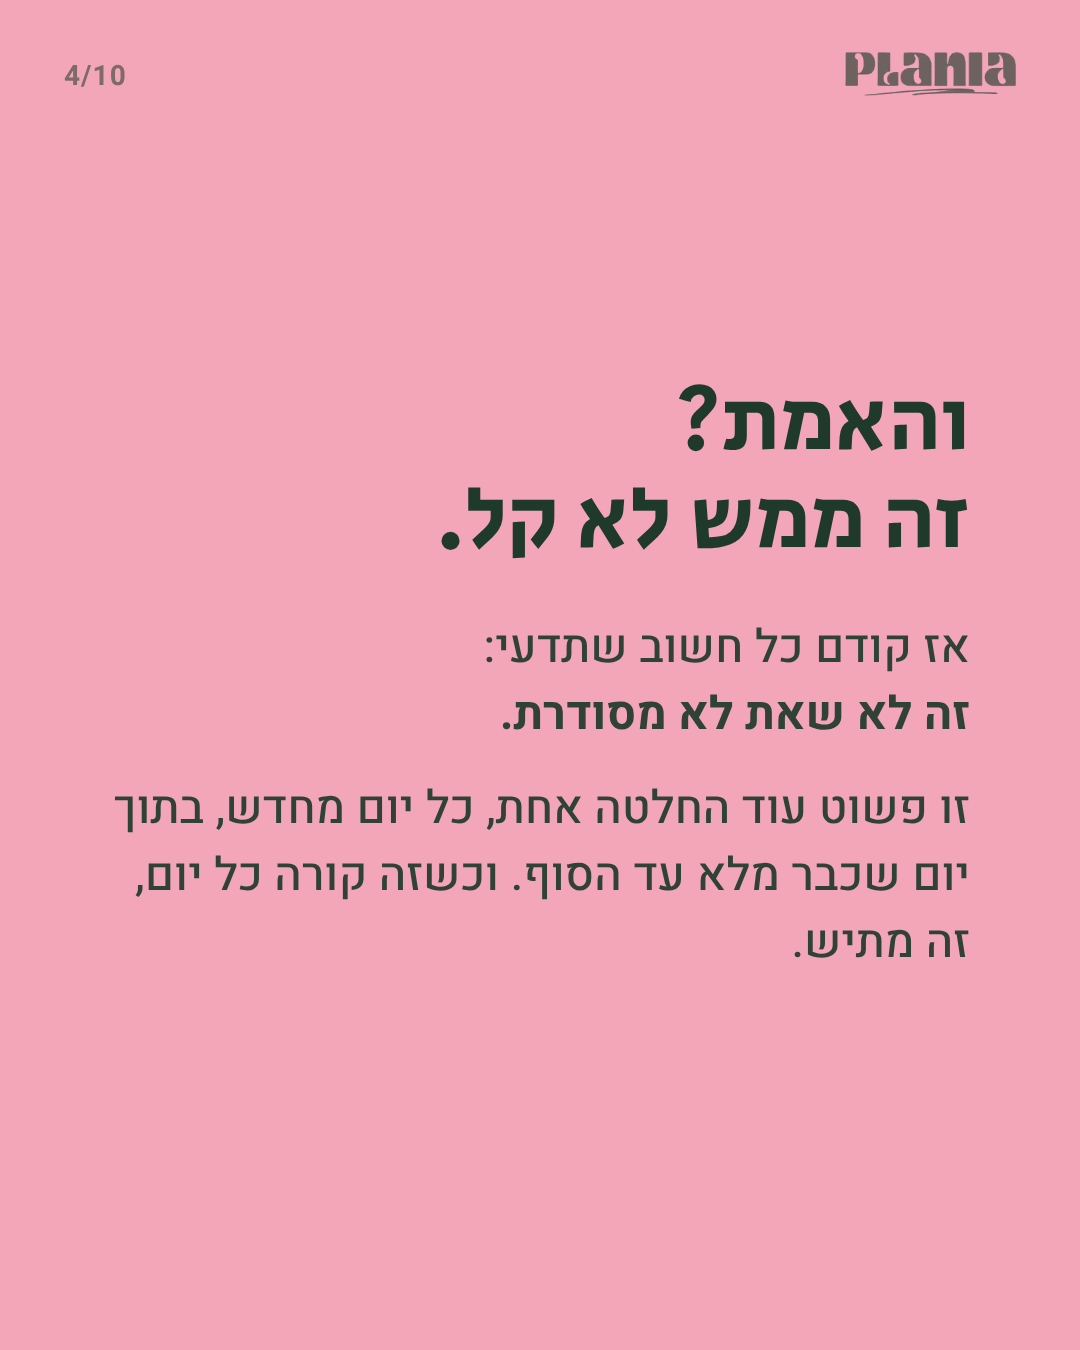
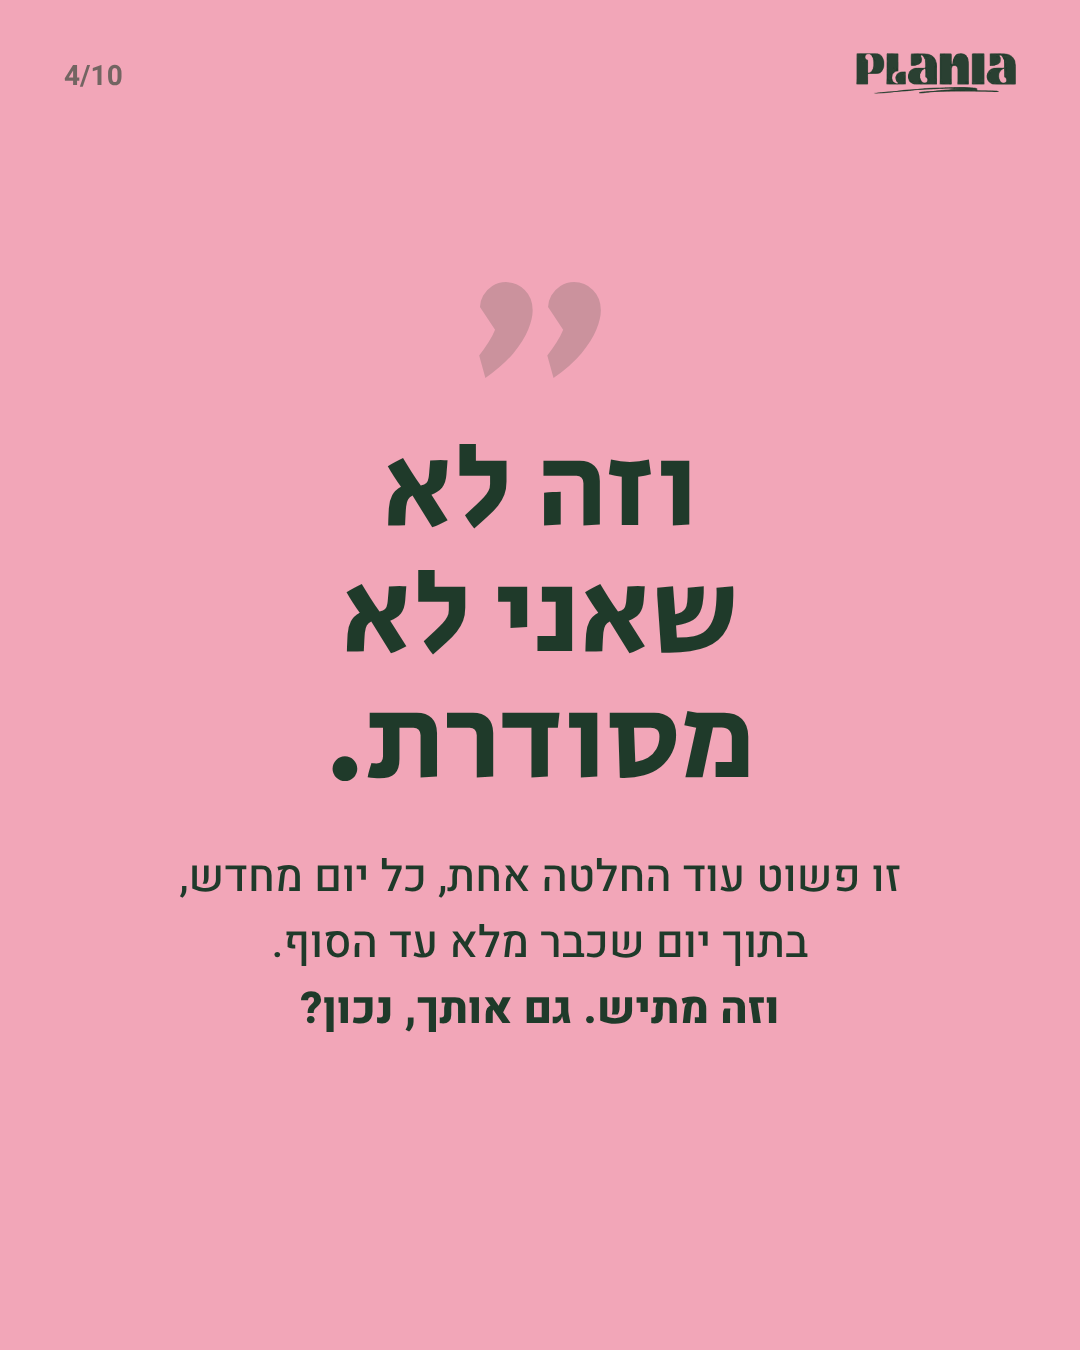
Redesign Plania carousel: real photos, centered text, warmer copy, bio-link ending
Claude-Session: https://claude.ai/code/session_016azaXjL3dC4W5EXXBWR2a4

diff --git a/carousel/carousel.html b/carousel/carousel.html
@@ -9,196 +9,186 @@
     --green: #1f3a2a;
     --green-2: #2a4a36;
     --pink: #f2a6b8;
-    --pink-soft: #fbe3e9;
+    --pink-deep: #d9718a;
     --cream: #fbf6ef;
-    --ink: #1f3a2a;
   }
   * { box-sizing: border-box; margin: 0; padding: 0; }
   body { background: #888; font-family: 'Heebo', sans-serif; }
+
   .slide {
     width: 1080px; height: 1350px; position: relative; overflow: hidden;
-    display: flex; flex-direction: column; justify-content: center;
-    padding: 120px 110px; margin-bottom: 40px;
+    display: flex; flex-direction: column; align-items: center; justify-content: center;
+    text-align: center; padding: 140px 100px; margin-bottom: 40px;
   }
-  .dark { background: radial-gradient(120% 90% at 80% 10%, var(--green-2), var(--green)); color: var(--cream); }
-  .light { background: var(--cream); color: var(--ink); }
-  .pinkbg { background: var(--pink); color: var(--ink); }
+  .dark  { background: radial-gradient(120% 90% at 50% 0%, var(--green-2), var(--green)); color: var(--cream); }
+  .light { background: var(--cream); color: var(--green); }
+  .pinkbg { background: var(--pink); color: var(--green); }
 
-  .count {
-    position: absolute; top: 56px; left: 64px;
-    font: 700 28px 'Heebo'; letter-spacing: 1px; opacity: .55; direction: ltr;
-  }
-  .brand {
-    position: absolute; top: 52px; right: 64px; height: 44px;
-  }
-  .brand img { height: 100%; }
[1 lines of base64/hex data omitted]
-  .brand img { visibility: hidden; }
+  /* photo slides */
+  .photo { color: #fff; }
+  .photo > .bg { position: absolute; inset: 0; width: 100%; height: 100%; object-fit: cover; z-index: 0; }
+  .photo::after { content: ""; position: absolute; inset: 0; z-index: 1;
+    background: linear-gradient(180deg, rgba(20,38,27,.55) 0%, rgba(20,38,27,.35) 40%, rgba(20,38,27,.85) 100%); }
+  .photo > *:not(.bg) { position: relative; z-index: 2; }
+
+  /* chrome */
+  .count { position: absolute !important; top: 56px; left: 64px; font: 700 28px 'Heebo'; opacity: .6; direction: ltr; z-index: 3; }
+  .brand { position: absolute !important; top: 52px; right: 64px; width: 160px; height: 42px; z-index: 3;
+    background: var(--pink); -webkit-mask: var(--logo) right / contain no-repeat; mask: var(--logo) right / contain no-repeat; }
   .light .brand, .pinkbg .brand { background: var(--green); }
-  .swipe {
-    position: absolute; bottom: 60px; left: 64px;
-    font: 700 30px 'Heebo'; opacity: .7; display: flex; gap: 14px; align-items: center;
-  }
-  .swipe .arrow { font-size: 44px; line-height: 1; }
+  .photo .brand { background: #fff; }
+  .swipe { position: absolute !important; bottom: 64px; left: 0; right: 0; font: 700 32px 'Heebo'; opacity: .85; z-index: 3; }
 
-  .tag {
-    display: inline-block; align-self: flex-start;
-    background: var(--pink); color: var(--ink);
-    font: 800 30px 'Heebo'; padding: 10px 28px; border-radius: 999px; margin-bottom: 44px;
-  }
-  .dark .tag { background: var(--pink); }
-  .pinkbg .tag { background: var(--green); color: var(--pink); }
-
-  h1 { font: 400 112px/1.08 'Secular One', 'Heebo'; letter-spacing: -1px; }
-  h2 { font: 400 88px/1.12 'Secular One', 'Heebo'; }
-  h3 { font: 400 64px/1.18 'Secular One', 'Heebo'; }
+  /* type */
+  .eyebrow { font: 400 40px 'Secular One'; color: var(--pink); margin-bottom: 28px; }
+  h1 { font: 400 108px/1.1 'Secular One'; }
+  h2 { font: 400 86px/1.15 'Secular One'; }
+  h3 { font: 400 66px/1.2 'Secular One'; }
   .hl { color: var(--pink); }
-  .light .hl { color: #d9718a; }
-  .pinkbg .hl { color: var(--cream); background: var(--green); padding: 0 16px; border-radius: 14px; }
-  p.body { font: 500 46px/1.45 'Heebo'; margin-top: 44px; opacity: .92; }
-  p.small { font: 500 38px/1.45 'Heebo'; margin-top: 30px; opacity: .8; }
+  .light .hl { color: var(--pink-deep); }
+  p.body { font: 500 44px/1.5 'Heebo'; margin-top: 40px; max-width: 860px; }
+  p.body b { font-weight: 800; }
+  .photo p.body { text-shadow: 0 2px 18px rgba(0,0,0,.35); }
+  .scribble { display: block; width: 360px; height: 26px; margin: 18px auto 0; }
 
-  .list { list-style: none; margin-top: 56px; display: flex; flex-direction: column; gap: 26px; }
-  .list li {
-    font: 700 50px/1.3 'Heebo'; display: flex; gap: 26px; align-items: center;
-    background: rgba(255,255,255,.06); border: 2px solid rgba(242,166,184,.35);
-    padding: 26px 34px; border-radius: 28px;
-  }
-  .list li .n { color: var(--pink); font: 400 54px 'Secular One'; min-width: 40px; }
-  .list li.end { border-style: dashed; color: var(--pink); }
+  /* hook */
+  .hook h1 { font-size: 96px; text-shadow: 0 4px 30px rgba(0,0,0,.35); }
+  .hook .pill { margin-top: 48px; background: var(--pink); color: var(--green); font: 800 38px 'Heebo'; padding: 16px 40px; border-radius: 999px; }
 
-  .step-num {
-    font: 400 300px/0.8 'Secular One'; color: var(--pink); opacity: .9;
-    position: absolute; bottom: 70px; right: 90px;
-  }
-  .light .step-num { color: var(--pink); opacity: 1; }
+  /* clock */
+  .clock { font: 400 190px/1 'Secular One'; color: var(--pink); letter-spacing: 4px; direction: ltr; }
 
-  .quote { font: 400 72px/1.25 'Secular One'; }
-  .chip-row { display: flex; flex-wrap: wrap; gap: 18px; margin-top: 50px; }
-  .chip { font: 700 36px 'Heebo'; padding: 14px 30px; border-radius: 999px; background: var(--green); color: var(--cream); }
+  /* thought bubbles */
+  .bubbles { display: flex; flex-direction: column; gap: 26px; margin-top: 60px; width: 100%; align-items: center; }
+  .bubble { background: #fff; color: var(--green); font: 700 46px/1.3 'Heebo'; padding: 26px 44px; border-radius: 44px;
+    box-shadow: 0 10px 30px rgba(0,0,0,.25); max-width: 820px; }
+  .bubble:nth-child(odd) { transform: rotate(-2deg) translateX(40px); }
+  .bubble:nth-child(even) { transform: rotate(1.5deg) translateX(-40px); }
+  .bubble.last { background: var(--pink); }
 
-  .price-box {
-    margin-top: 50px; background: var(--cream); color: var(--ink); border-radius: 36px;
-    padding: 40px 48px; display: flex; align-items: center; justify-content: space-between; gap: 30px;
-  }
-  .price { font: 400 150px/1 'Secular One'; color: var(--green); }
-  .price small { font-size: 70px; }
-  .price-txt { font: 700 40px/1.35 'Heebo'; }
-  .price-txt .muted { font-weight: 500; font-size: 32px; opacity: .7; display: block; margin-top: 6px; }
-  .dm {
-    margin-top: 50px; background: var(--green); color: var(--cream); border-radius: 36px;
-    padding: 40px 48px; font: 700 48px/1.35 'Heebo';
-  }
-  .dm b { color: var(--pink); font-family: 'Secular One'; font-weight: 400; font-size: 60px; }
-  .cover-logo { height: 120px; margin-bottom: 60px; align-self: flex-start; }
-  .tagline { font: 700 26px 'Heebo'; letter-spacing: 6px; direction: ltr; text-align: right; opacity: .7; margin-top: -40px; margin-bottom: 70px; }
+  /* big quote */
+  .bigq { font: 400 120px/1.05 'Secular One'; }
+  .qmark { font: 400 260px/0.6 'Secular One'; color: var(--green); opacity: .18; height: 120px; }
+
+  /* steps */
+  .step { justify-content: flex-start; padding-top: 150px; }
+  .step-badge { width: 120px; height: 120px; border-radius: 50%; background: var(--pink); color: var(--green);
+    font: 400 72px/120px 'Secular One'; margin-bottom: 30px; flex: none; }
+  .step h2 { font-size: 78px; }
+  .step p.body { font-size: 40px; margin-top: 24px; }
+  .polaroid { margin-top: 56px; width: 620px; height: 560px; border-radius: 36px; overflow: hidden; flex: none;
+    box-shadow: 0 24px 60px rgba(31,58,42,.25); transform: rotate(-2deg); border: 14px solid #fff; }
+  .polaroid img { width: 100%; height: 100%; object-fit: cover; }
+  .phone { margin-top: 50px; width: 440px; height: 640px; border-radius: 56px; overflow: hidden; flex: none;
+    border: 14px solid #10201a; box-shadow: 0 30px 70px rgba(31,58,42,.35); transform: rotate(2deg); background: #fff; }
+  .phone img { width: 100%; display: block; }
+
+  /* end */
+  .end-logo { width: 520px; height: 140px; background: var(--pink);
+    -webkit-mask: var(--logo) center / contain no-repeat; mask: var(--logo) center / contain no-repeat; }
+  .end-tag { font: 700 26px 'Heebo'; letter-spacing: 6px; color: var(--pink); opacity: .8; margin: 14px 0 70px; direction: ltr; }
+  .bio { margin-top: 50px; display: inline-flex; align-items: center; gap: 18px; background: var(--pink); color: var(--green);
+    font: 800 50px 'Heebo'; padding: 26px 60px; border-radius: 999px; }
+  .soft { font: 500 42px/1.5 'Heebo'; opacity: .85; max-width: 860px; }
 </style>
 </head>
 <body>
 
-<!-- 1 · HOOK (ספציפי + רגש + Timeframe) -->
-<section class="slide dark">
-  <span class="count">1/10</span>
-  <span class="tag">לאמהות עסוקות</span>
-  <h1 style="font-size:104px">איך להפסיק לשאול<br><span class="hl">"מה אוכלים היום?"</span><br>עם 15 דקות תכנון<br>בשבוע</h1>
-  <div class="swipe"><span class="arrow">←</span> החליקי לשיטה</div>
-  <span class="brand"><img src="logo.png" alt="Plania"></span>
+<!-- 1 · HOOK -->
+<section class="slide photo hook">
+  <img class="bg" src="img/challah.jpg" alt="">
+  <span class="count">1/10</span><span class="brand"></span>
+  <h1>מה גרם לי להפסיק<br>לשאול כל יום<br><span class="hl">"מה מבשלים היום?"</span></h1>
+  <span class="pill">ולמה זה לוקח לי רק 15 דקות בשבוע</span>
+  <div class="swipe">החליקי ←</div>
 </section>
 
 <!-- 2 · הצגת הבעיה -->
-<section class="slide light">
-  <span class="count">2/10</span>
-  <span class="brand"><img src="logo.png" alt="Plania"></span>
-  <span class="tag">מכירה את זה?</span>
-  <h2>כל יום, בערך<br>בחמש אחר הצהריים,<br>אותה שאלה בדיוק:</h2>
-  <p class="quote" style="margin-top:60px; color:#d9718a">"מה אוכלים היום?"</p>
-  <p class="body">זו רק ארוחת ערב. אז למה היא גומרת לך את כל האנרגיה?</p>
+<section class="slide photo">
+  <img class="bg" src="img/fridge.jpg" alt="">
+  <span class="count">2/10</span><span class="brand"></span>
+  <div class="clock">17:00</div>
+  <h3 style="margin-top:30px">הילדים כבר רעבים.</h3>
+  <p class="body">ואני עומדת מול המקרר הפתוח, כאילו ארוחת ערב תקפוץ משם לבד.</p>
 </section>
 
 <!-- 3 · העמקת הכאב -->
-<section class="slide dark">
-  <span class="count">3/10</span>
-  <span class="brand"><img src="logo.png" alt="Plania"></span>
-  <h3>כי זו אף פעם לא<br><span class="hl">רק החלטה אחת:</span></h3>
-  <ul class="list">
-    <li><span class="n">1</span>לחשוב מה להכין</li>
-    <li><span class="n">2</span>לבדוק מה יש במקרר</li>
-    <li><span class="n">3</span>להבין מה חסר ולקפוץ לסופר</li>
-    <li class="end">ואז לגלות שאף אחד לא רוצה את מה שהפשרת 🙃</li>
-  </ul>
+<section class="slide photo">
+  <img class="bg" src="img/cart.jpg" alt="">
+  <span class="count">3/10</span><span class="brand"></span>
+  <h3>ומשם זה מתגלגל:</h3>
+  <div class="bubbles">
+    <div class="bubble">מה יש לנו בכלל בבית?</div>
+    <div class="bubble">אין שמנת. שוב.</div>
+    <div class="bubble">טוב, קופצת רגע לסופר…</div>
+    <div class="bubble last">ובסוף אף אחד לא רוצה<br>את העוף שהפשרתי 🙃</div>
+  </div>
 </section>
 
 <!-- 4 · הזדהות -->
 <section class="slide pinkbg">
-  <span class="count">4/10</span>
-  <span class="brand"><img src="logo.png" alt="Plania"></span>
-  <h2>והאמת?<br>זה ממש לא קל.</h2>
-  <p class="body">אז קודם כל חשוב שתדעי:<br><b>זה לא שאת לא מסודרת.</b></p>
-  <p class="body" style="margin-top:28px">זו פשוט עוד החלטה אחת, כל יום מחדש, בתוך יום שכבר מלא עד הסוף. וכשזה קורה כל יום, זה מתיש.</p>
+  <span class="count">4/10</span><span class="brand"></span>
+  <div class="qmark">"</div>
+  <p class="bigq">וזה לא<br>שאני לא<br>מסודרת.</p>
+  <p class="body">זו פשוט עוד החלטה אחת, כל יום מחדש,<br>בתוך יום שכבר מלא עד הסוף.<br><b>וזה מתיש. גם אותך, נכון?</b></p>
 </section>
 
-<!-- 5 · פתרון: כותרת שמחברת להזדהות -->
+<!-- 5 · הכותרת שמחברת לפתרון -->
 <section class="slide dark">
-  <span class="count">5/10</span>
-  <span class="brand"><img src="logo.png" alt="Plania"></span>
-  <span class="tag">אבל</span>
-  <h1>זה לא חייב<br>להיות <span class="hl">ככה.</span></h1>
-  <p class="body">מה שעבד אצלנו: להחליט <b>פעם אחת בשבוע</b> במקום פעם ביום.</p>
-  <p class="body" style="color:var(--pink)">הנה השיטה ב-4 צעדים ←</p>
+  <span class="count">5/10</span><span class="brand"></span>
+  <div class="eyebrow">ואז הבנתי משהו פשוט</div>
+  <h1>לא צריך<br>להחליט כל יום.</h1>
+  <h1 class="hl" style="margin-top:20px">מספיק פעם<br>בשבוע.</h1>
+  <svg class="scribble" viewBox="0 0 360 26"><path d="M6 18 C 90 4, 180 4, 354 14" stroke="#f2a6b8" stroke-width="7" fill="none" stroke-linecap="round"/></svg>
+  <p class="body">ככה זה נראה אצלי, ב-4 צעדים ←</p>
 </section>
 
-<!-- 6 · פתרון סעיף 1 -->
-<section class="slide light">
-  <span class="count">6/10</span>
-  <span class="brand"><img src="logo.png" alt="Plania"></span>
-  <span class="tag">צעד 1</span>
-  <h2>15 דקות.<br>יום ראשון.<br><span class="hl">כל השבוע.</span></h2>
-  <p class="body">יושבות פעם אחת ובוחרות 5 ארוחות ערב לשבוע. לא צריך מושלם, צריך מתוכנן.</p>
-  <span class="step-num">1</span>
+<!-- 6 · צעד 1 -->
+<section class="slide light step">
+  <span class="count">6/10</span><span class="brand"></span>
+  <div class="step-badge">1</div>
+  <h2>יום ראשון, קפה,<br><span class="hl">15 דקות</span></h2>
+  <p class="body">בוחרת 5 ארוחות ערב לשבוע.<br>לא מושלם. פשוט מתוכנן.</p>
+  <div class="phone"><img src="img/app-week.jpg" alt=""></div>
 </section>
 
-<!-- 7 · פתרון סעיף 2 -->
-<section class="slide light">
-  <span class="count">7/10</span>
-  <span class="brand"><img src="logo.png" alt="Plania"></span>
-  <span class="tag">צעד 2</span>
-  <h2>מתחילות ממה<br><span class="hl">שכבר יש בבית</span></h2>
-  <p class="body">לפני שקונות משהו, מציצות במקרר ובמקפיא. ככה פחות אוכל נזרק כי "שכחתי שהוא שם".</p>
-  <span class="step-num">2</span>
+<!-- 7 · צעד 2 -->
+<section class="slide light step">
+  <span class="count">7/10</span><span class="brand"></span>
+  <div class="step-badge">2</div>
+  <h2>קודם מציצה<br><span class="hl">מה כבר יש בבית</span></h2>
+  <p class="body">מה שמחכה במקרר נכנס לתפריט.<br>הרבה פחות "אופס, זה התקלקל".</p>
+  <div class="polaroid"><img src="img/corn.jpg" alt=""></div>
 </section>
 
-<!-- 8 · פתרון סעיף 3 -->
-<section class="slide light">
-  <span class="count">8/10</span>
-  <span class="brand"><img src="logo.png" alt="Plania"></span>
-  <span class="tag">צעד 3</span>
-  <h2>רשימת קניות<br><span class="hl">אחת</span> לכל השבוע</h2>
-  <p class="body">שנבנית מהתפריט. נסיעה אחת לסופר, בלי "רגע, שכחתי שמנת".</p>
-  <span class="step-num">3</span>
+<!-- 8 · צעד 3 -->
+<section class="slide light step">
+  <span class="count">8/10</span><span class="brand"></span>
+  <div class="step-badge">3</div>
+  <h2>רשימת קניות <span class="hl">אחת</span><br>לכל השבוע</h2>
+  <p class="body">נסיעה אחת לסופר.<br>בלי "רגע, שכחתי שמנת".</p>
+  <div class="phone"><img src="img/app-list.jpg" alt=""></div>
 </section>
 
-<!-- 9 · פתרון סעיף 4 -->
-<section class="slide light">
-  <span class="count">9/10</span>
-  <span class="brand"><img src="logo.png" alt="Plania"></span>
-  <span class="tag">צעד 4</span>
-  <h2>מבשלות פעם,<br><span class="hl">אוכלות פעמיים</span></h2>
-  <p class="body">מנה כפולה או סלטים מוכנים מראש, וחצי מהשבוע כבר מסודר. פחות הזמנות "כי אין כוח לחשוב".</p>
-  <span class="step-num">4</span>
+<!-- 9 · צעד 4 -->
+<section class="slide light step">
+  <span class="count">9/10</span><span class="brand"></span>
+  <div class="step-badge">4</div>
+  <h2>מבשלת פעם,<br><span class="hl">אוכלים פעמיים</span></h2>
+  <p class="body">תבנית כפולה, וחצי שבוע כבר מסודר.<br>ופחות משלוחים "כי אין כוח לחשוב".</p>
+  <div class="polaroid" style="transform:rotate(2deg)"><img src="img/potatoes.jpg" alt=""></div>
 </section>
 
-<!-- 10 · הנעה לפעולה -->
-<section class="slide pinkbg">
+<!-- 10 · סיום -->
+<section class="slide dark">
   <span class="count">10/10</span>
-  <span class="brand"><img src="logo.png" alt="Plania"></span>
-  <h3>רוצה שכל 4 הצעדים<br>יקרו <span class="hl">בשבילך?</span></h3>
-  <p class="small" style="opacity:.9; margin-top:36px"><b>Plania</b> בונה לך תפריט שבועי, רשימת קניות ומתכונים במקום אחד. את רק בוחרת מה בא לך.</p>
-  <div class="price-box">
-    <div class="price">99<small>₪</small></div>
-    <div class="price-txt">פעם אחת. לכל החיים.<span class="muted">מבצע השקה · ל-30 הראשונות בלבד</span></div>
-  </div>
-  <div class="dm">כתבי לי <b>"תפריט"</b> בהודעה<br>ואשלח לך את הקישור 💌</div>
+  <div class="end-logo"></div>
+  <div class="end-tag">PLANNING MADE PRETTY</div>
+  <p class="soft">זה לא שהשבוע שלי מתוקתק. ממש לא.<br>פשוט יש לי דבר אחד פחות לחשוב עליו כל יום.</p>
+  <h2 style="margin-top:70px">רוצה לנסות?</h2>
+  <div class="bio">יש קישור בביו ↑</div>
 </section>
 
+<script src="logo-data.js"></script>
 </body>
 </html>

diff --git a/carousel/logo-data.js b/carousel/logo-data.js
@@ -1,0 +1,1 @@
[1 lines of base64/hex data omitted]
